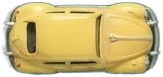
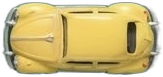
Re-flip yellow and gray cars so they face the house.
Green was already correct; bump asset cache to Sürüm 19.

diff --git a/index.html b/index.html
@@ -488,7 +488,7 @@
     <section class="panel" id="menu">
       <div class="card">
         <h1>Halka Arabaları</h1>
-        <p id="build-tag" style="margin:0 0 8px;font-size:13px;font-weight:800;color:#f0a202;">Sürüm 18 · Menü sayfaları</p>
+        <p id="build-tag" style="margin:0 0 8px;font-size:13px;font-weight:800;color:#f0a202;">Sürüm 19 · Menü sayfaları</p>
         <p style="margin:0 0 8px;font-size:14px;">Çek-bırak, halkaya dur, botu yen. Oyunda Menü ile geri dön.</p>
         <p id="menu-best"></p>
         <div class="menu-entries">
@@ -638,7 +638,7 @@
     let CAR_COUNT = PLAYER_COLORS.length;
     function carFileUrl(i) {
       const file = (ATLAS && ATLAS.cars[i] && ATLAS.cars[i].file) ? ATLAS.cars[i].file : ("car_" + String(i).padStart(2, "0") + ".png");
-      return "cars/" + file + "?v=18";
+      return "cars/" + file + "?v=19";
     }
     function punchCrop(img) {
       const w = img.naturalWidth;
@@ -685,12 +685,12 @@
         carSheets[i] = sheet;
         if (i === 0) carSheets[2] = sheet;
       };
-      im.src = src + "?v=18";
+      im.src = src + "?v=19";
     });
     function loadCarImages(meta) {
       carImages = meta.cars.map((c, i) => {
         const im = new Image();
-        im.src = "cars/" + (c.file || ("car_" + String(i).padStart(2, "0") + ".png")) + "?v=18";
+        im.src = "cars/" + (c.file || ("car_" + String(i).padStart(2, "0") + ".png")) + "?v=19";
         return im;
       });
     }
@@ -707,13 +707,13 @@
       refreshMenuBest();
       if (state === "collection") renderCollection();
     }
-    fetch("cars/atlas.json?v=18")
+    fetch("cars/atlas.json?v=19")
       .then((r) => r.json())
       .then((meta) => new Promise((resolve, reject) => {
         const img = new Image();
         img.onload = () => resolve({ meta, img });
         img.onerror = reject;
-        img.src = "cars/atlas.png?v=18";
+        img.src = "cars/atlas.png?v=19";
       }))
       .then(({ meta, img }) => applyAtlas(meta, img))
       .catch(() => { /* atlas yoksa renk yedekleri kalır */ });
